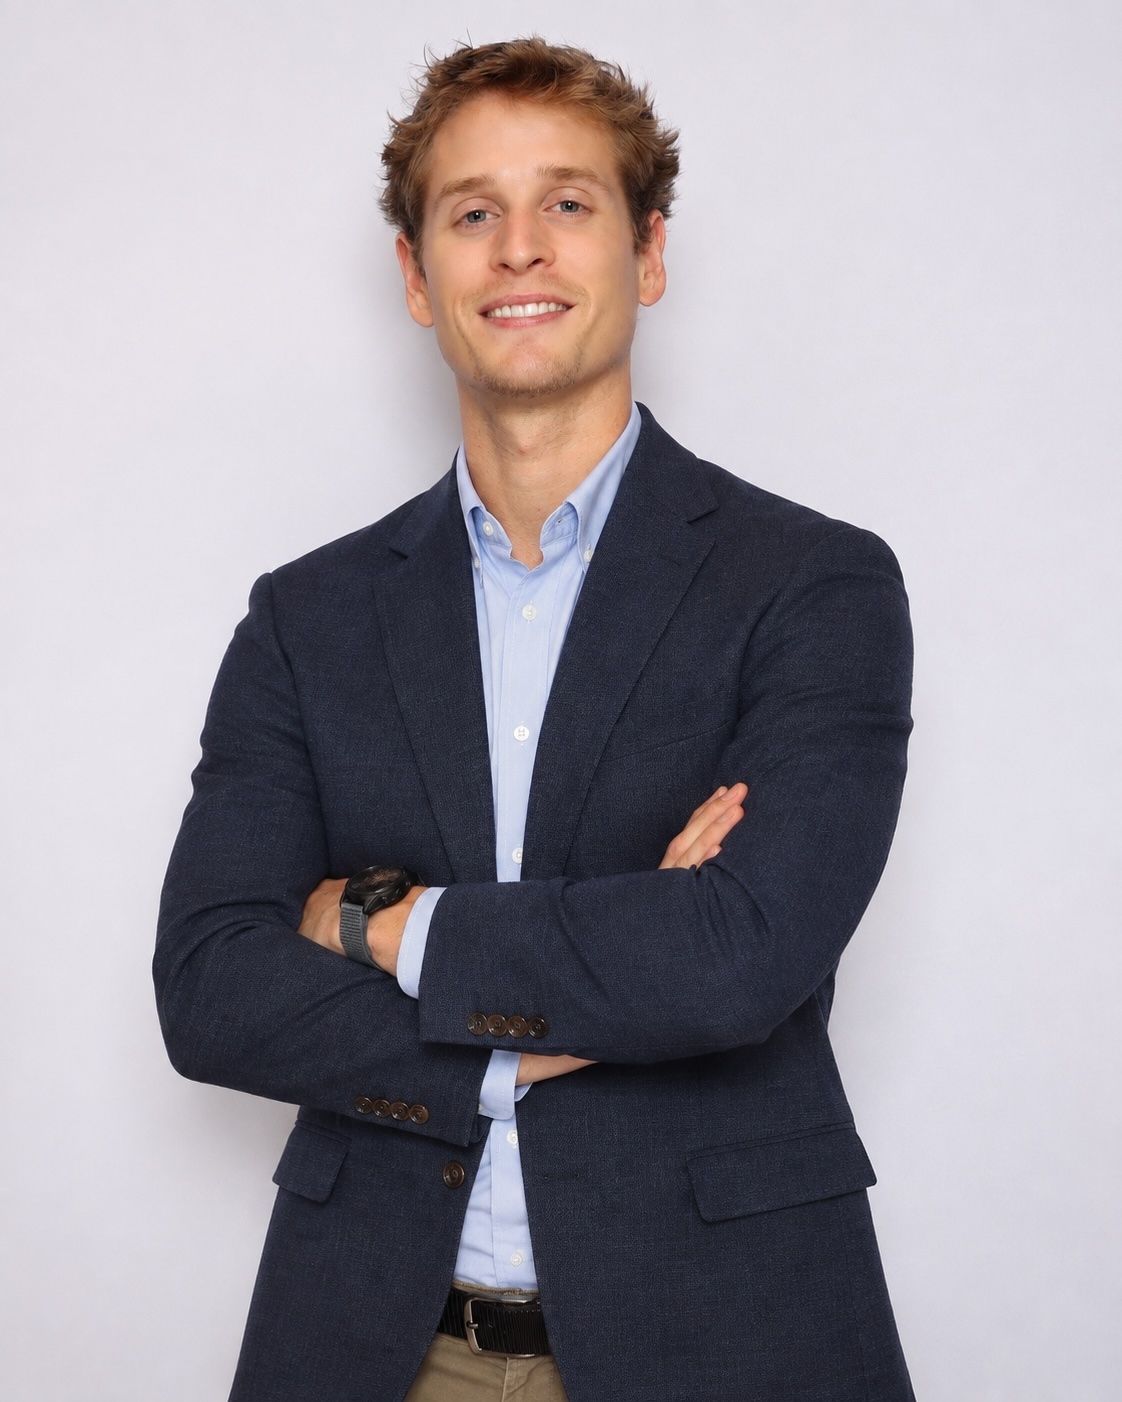
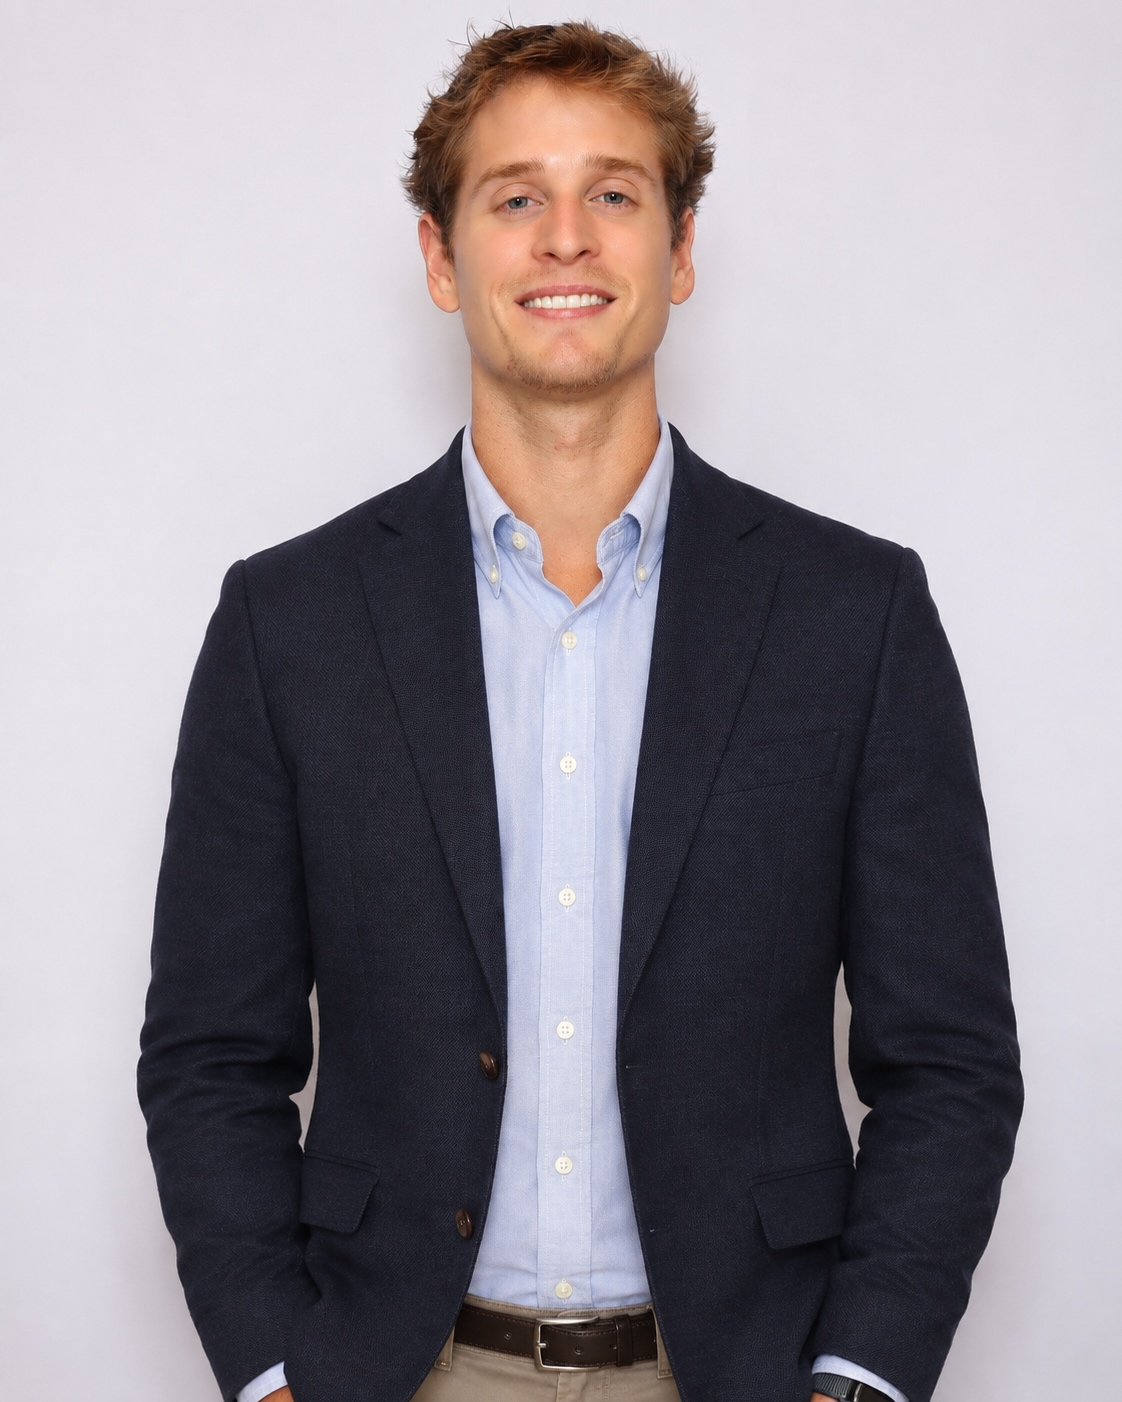
fix: show About photo in natural colors (remove blue overlay and desaturation)

Changed region(s): [[0.1248, 0.0, 0.9358, 1.0], [0.6551, 0.3374, 0.6863, 0.368], [0.3431, 0.7668, 0.3743, 0.7974]]

diff --git a/index.html b/index.html
@@ -647,24 +647,16 @@
     position: relative;
     overflow: hidden;
   }
-  .about-photo-frame::after {
-    content: '';
-    position: absolute; inset: 0;
-    background: linear-gradient(165deg, transparent 55%, rgba(46,125,163,0.18));
-    pointer-events: none;
-  }
   .about-photo {
     display: block;
     width: 100%;
     aspect-ratio: 3 / 4;
     object-fit: cover;
     object-position: center top;
-    filter: grayscale(28%) contrast(1.06);
     transition: filter 0.8s var(--ease-out), transform 1.6s var(--ease-out);
   }
   html.js .about-photo { transform: scale(1.08); }
   html.js .rv.in .about-photo { transform: scale(1); }
-  .about-photo-wrap:hover .about-photo { filter: grayscale(0%) contrast(1.05); }
 
   .about-photo-box::before {
     content: '';
